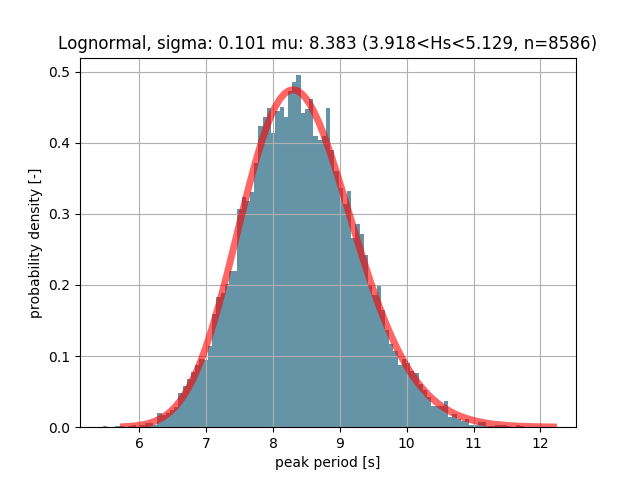
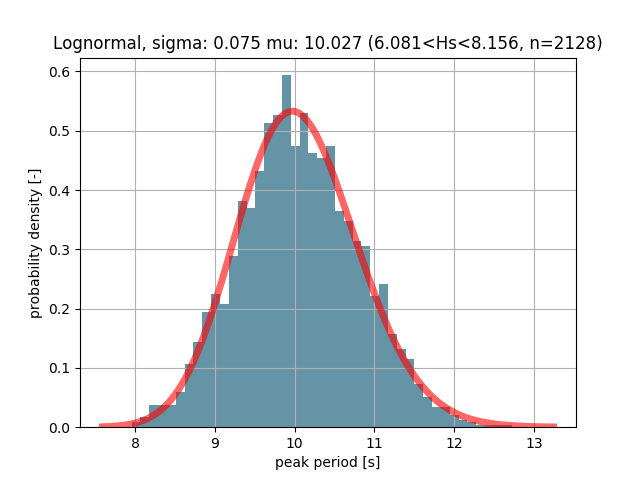
improve measure file fit form

diff --git a/enviro/compute/fitting.py b/enviro/compute/fitting.py
@@ -304,7 +304,7 @@ class Fit():
                 param_values[i].append(current_params[i])
 
     @staticmethod
-    def _get_fitting_values(sample, samples, name, dependency, number_of_steps, index):
+    def _get_fitting_values(sample, samples, name, dependency, number_of_intervals, index):
         """
         Returns values for fitting.
 
@@ -326,7 +326,7 @@ class Fit():
                 None -> no dependency
                 int -> depends on particular dimension
 
-        number_of_steps : int,
+        number_of_intervals : int,
             number of distributions used to fit shape, loc, scale
 
         index : int,
@@ -335,10 +335,10 @@ class Fit():
         """
         MIN_DATA_POINTS_FOR_FIT = 10
 
-        # compute steps
-        steps, step_size = np.linspace(min(samples[dependency[index]]), max(samples[dependency[index]]),
-                                       num=number_of_steps, endpoint=False, retstep=True)
-        steps += 0.5 * step_size
+        # compute intervals
+        interval_centers, interval_width = np.linspace(min(samples[dependency[index]]), max(samples[dependency[index]]),
+                                                  num=number_of_intervals, endpoint=False, retstep=True)
+        interval_centers += 0.5 * interval_width
         # sort samples
         samples = np.stack((sample, samples[dependency[index]])).T
         sort_indice = np.argsort(samples[:, 1])
@@ -347,8 +347,8 @@ class Fit():
         param_values = [[], [], []]
         dist_values = []
         # look for data that is fitting to each step
-        for i, step in enumerate(steps):
-            mask = ((sorted_samples[:, 1] >= step - 0.5 * step_size) & (sorted_samples[:, 1] < step + 0.5 * step_size))
+        for i, step in enumerate(interval_centers):
+            mask = ((sorted_samples[:, 1] >= step - 0.5 * interval_width) & (sorted_samples[:, 1] < step + 0.5 * interval_width))
             fitting_values = sorted_samples[mask, 0]
             if len(fitting_values) >= MIN_DATA_POINTS_FOR_FIT:
                 try:
@@ -357,20 +357,20 @@ class Fit():
                     dist_values.append(fitting_values)
                 except ValueError:
                     # for case that no fitting data for the step has been found -> step is deleted
-                    steps = np.delete(steps,i)
+                    interval_centers = np.delete(interval_centers,i)
                     warnings.warn(
                         "There is not enough data for step '{}' in dimension '{}'. This step is skipped. "
                         "Maybe you should ckeck your data or reduce the number of steps".format(step, dependency[index]),
                         RuntimeWarning, stacklevel=2)
             else:
                 # for case that to few fitting data for the step has been found -> step is deleted
-                steps = np.delete(steps,i)
+                interval_centers = np.delete(interval_centers,i)
                 warnings.warn(
-                    "'Due to the restriction of MIN_DATA_POINTS_FOR_FIT='{}' there is not enough data (n='{}') for step '{}' in"
+                    "'Due to the restriction of MIN_DATA_POINTS_FOR_FIT='{}' there is not enough data (n='{}') for the interval centered at '{}' in"
                     " dimension '{}'. This step is skipped. Maybe you should ckeck your data or reduce the number "
                     "of steps".format(MIN_DATA_POINTS_FOR_FIT, len(fitting_values), step, dependency[index]),
                     RuntimeWarning, stacklevel=2)
-        return steps, dist_values, param_values
+        return interval_centers, dist_values, param_values
 
     @staticmethod
     def _get_distribution(dimension, samples, **kwargs):

diff --git a/enviro/forms.py b/enviro/forms.py
@@ -56,18 +56,18 @@ class MeasureFileFitForm(forms.Form):
                                                                                               'onclick': func_call}),
                                                                    label='distribution')
             self.fields['scale_dependency_%s' % i] = forms.ChoiceField(choices=condition, required=False,
-                                                                       label='scale dependency')
+                                                                       label='scale (λ) dependency')
             self.fields['shape_dependency_%s' % i] = forms.ChoiceField(choices=condition, required=False,
-                                                                       label='shape dependency',
+                                                                       label='shape (k) dependency',
                                                                        widget=forms.Select(
                                                                            attrs={'id': 'shape_%s' % i}))
             self.fields['location_dependency_%s' % i] = forms.ChoiceField(choices=condition, required=False,
-                                                                          label='location dependency',
+                                                                          label='location (θ) dependency',
                                                                           widget=forms.Select(
                                                                               attrs={'id': 'loc_%s' % i}))
 
     title = forms.CharField(max_length=50, label='title')
-    number_of_intervals = forms.IntegerField(widget=forms.NumberInput(attrs={'value': '15'}), label='number of intervals')
+    number_of_intervals = forms.IntegerField(widget=forms.NumberInput(attrs={'value': '7'}), label='number of intervals')
 
 
 class VariablesForm(forms.Form):
